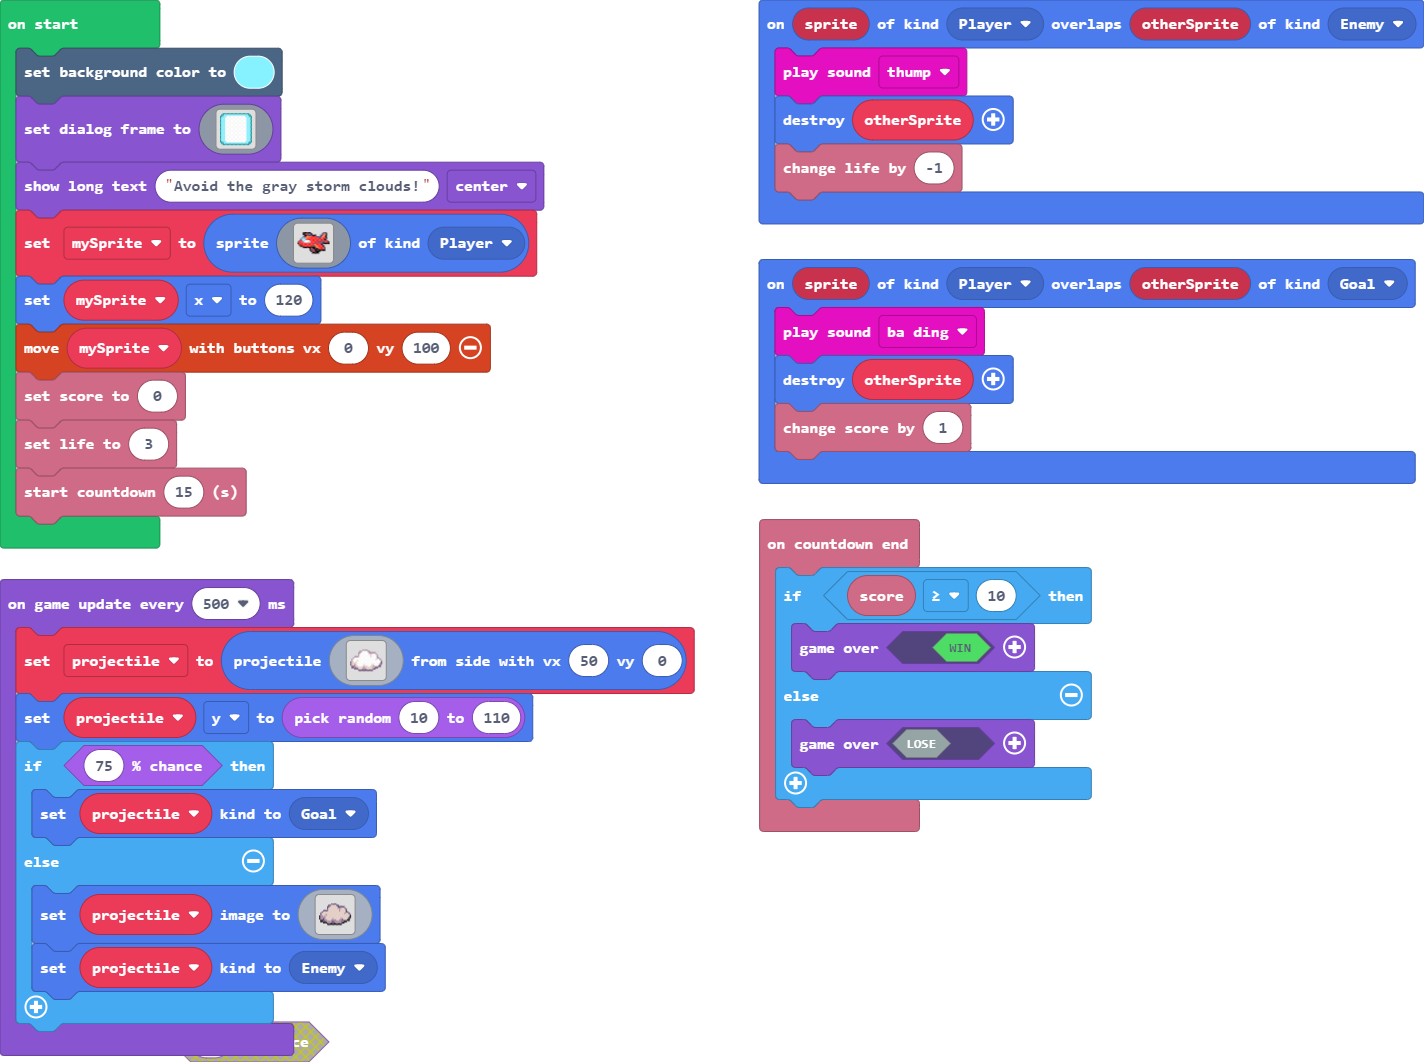
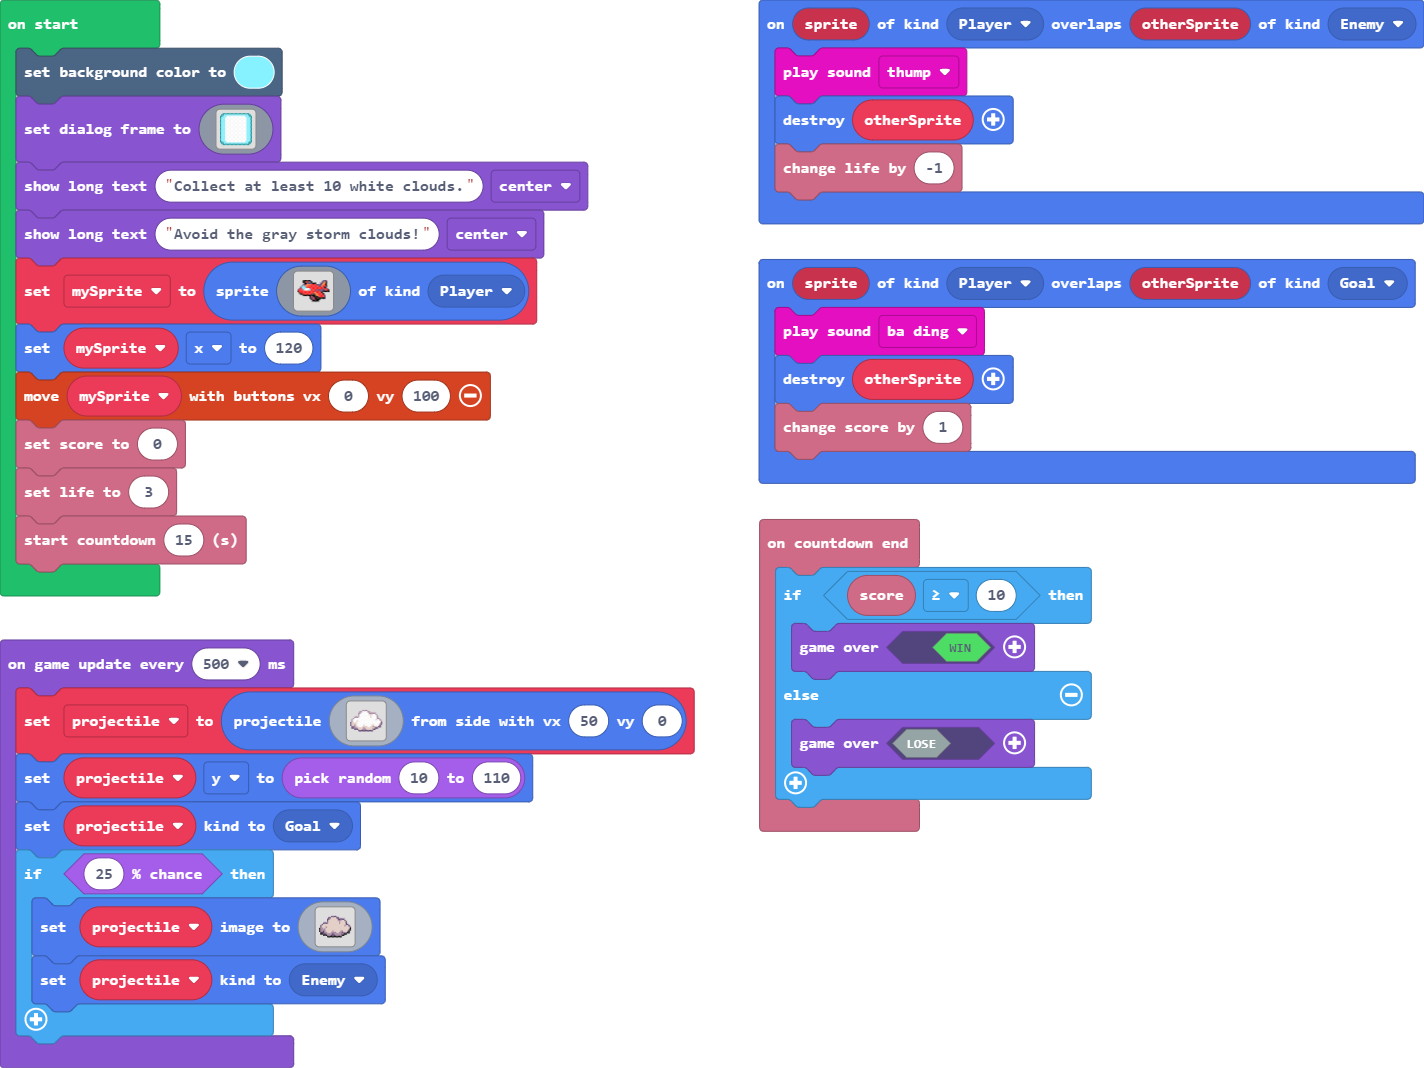
Update main.blocks, main.ts

Changed region(s): [[0.0, 0.0932, 0.4944, 1.0], [0.5253, 0.2486, 0.9888, 0.8079], [0.5562, 0.0621, 0.7107, 0.2175]]

diff --git a/main.ts b/main.ts
@@ -47,6 +47,7 @@ game.setDialogFrame(img`
     .6699999999999999999966.
     ..66666666666666666666..
     `)
+game.showLongText("Collect at least 10 white clouds.", DialogLayout.Center)
 game.showLongText("Avoid the gray storm clouds!", DialogLayout.Center)
 let mySprite = sprites.create(img`
     ....ffffff.........ccc..
@@ -91,9 +92,8 @@ game.onUpdateInterval(500, function () {
         ......ccccccccccc.......
         `, 50, 0)
     projectile.y = randint(10, 110)
-    if (Math.percentChance(75)) {
-        projectile.setKind(SpriteKind.Goal)
-    } else {
+    projectile.setKind(SpriteKind.Goal)
+    if (Math.percentChance(25)) {
         projectile.setImage(img`
             .........cccc...........
             .......ccddddcc.........
